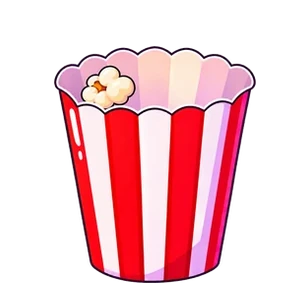
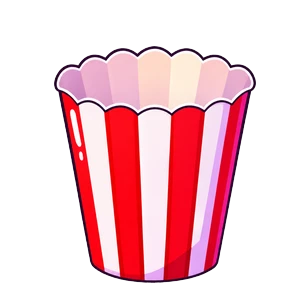
Center the Speed Run clock in white; start the streak with an empty bucket
Claude-Session: https://claude.ai/code/session_01Mm9XAqpH2Tm9RZFnvzoxAh

diff --git a/PlotMix.jsx b/PlotMix.jsx
@@ -3893,7 +3893,7 @@ function ClapperTake({take, note, reducedMotion=false}) {
 
 // Run streak shown as the owner's popcorn bucket art: 8 drawings that fill up (and spill)
 // as the streak grows; kernels pop on every film found (owner request 2026-11-04).
-const POPCORN_STAGES = Array.from({length:8}, (_,i)=>`/stickers/popcorn-${i}.webp`);
+const POPCORN_STAGES = Array.from({length:9}, (_,i)=>`/stickers/popcorn-${i}.webp`);
 function PopcornMeter({streak, popKey, reducedMotion=false}) {
   const level = Math.min(POPCORN_STAGES.length-1, streak);
   const kernels = [[-30,-34],[-14,-48],[4,-54],[20,-44],[32,-28]];
@@ -6425,10 +6425,10 @@ function GameScreen({mode,deck,initialState,onQuit,onComplete,reducedMotion=fals
               <div style={{background:"#fff",borderRadius:22,padding:"26px 20px 22px",boxSizing:"border-box",position:"relative",border:`2px solid ${T.border}`,boxShadow:T.shadow,marginTop:0}}>
                 {/* Speed Run: a big countdown clock where the difficulty badge used to be (owner request 2026-11-04). */}
                 {mode.timeLimit>0&&(
-                  <div aria-label="Time left" style={{position:"absolute",top:-40,right:-6,display:"flex",alignItems:"center",gap:4,
+                  <div aria-label="Time left" style={{position:"absolute",top:-40,left:0,right:0,display:"flex",alignItems:"center",justifyContent:"center",gap:4,
                     animation:!reducedMotion&&timeLeft<=10&&timeLeft>0?"ptsShake 0.5s ease infinite":"none","--amp":"2px"}}>
                     <IconStopwatch size={54}/>
-                    <span style={{...YELLOW_STICKER_TEXT,fontSize:30,lineHeight:1,color:timeLeft<=10?"#FF5A5A":T.gold}}>
+                    <span style={{...YELLOW_STICKER_TEXT,fontSize:30,lineHeight:1,color:timeLeft<=10?"#FF5A5A":"#FFFFFF"}}>
                       {`${Math.floor(timeLeft/60)}:${String(timeLeft%60).padStart(2,"0")}`}
                     </span>
                   </div>
